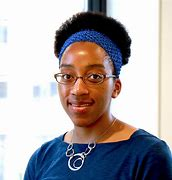
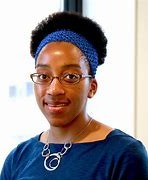
Added building image, finished contributors layout (need to list all contributors)

diff --git a/index.html b/index.html
@@ -1,97 +1,107 @@
 <!DOCTYPE html>
 <html lang="en">
-<head>
-    <meta charset="UTF-8">
-    <meta name="viewport" content="width=device-width, initial-scale=1.0">
-    <title>CS TA Program - Home</title>
-    <link rel="stylesheet" href="src/css/main.css">
-    <link rel="stylesheet" href="src/css/responsive.css">
-</head>
-<body>
-    <header id="main-header"></header>
+    <head>
+        <meta charset="UTF-8">
+        <meta name="viewport" content="width=device-width, initial-scale=1.0">
+        <title>CS TA Program - Home</title>
+        <link rel="stylesheet" href="src/css/main.css">
+        <link rel="stylesheet" href="src/css/responsive.css">
+    </head>
+    <body>
+        <header id="main-header"></header>
 
-    <nav id="main-nav"></nav>
+        <nav id="main-nav"></nav>
 
-    <main>
-        <div class="container">
-            <div class="content">
-                <h2>Welcome to the Student Computer Science Website!</h2>
-                <p>Explore our website to learn about our initiatives and meet our team.</p>
-                <a href="src/pages/meet-tas.html" class="button">Meet Our TAs</a>
+        <main>
+            <div class="container">
+                <div class="content">
+                    <h2>Welcome to the Student Computer Science Website!</h2>
+                    <img class="main-image" src="/src/images/CMIT.jpg" alt="CMIT Building">
+                    <p>Explore our website to learn about our initiatives and meet our team.</p>
+                    <a href="src/pages/meet-tas.html" class="button">Meet Our TAs</a>
 
-                <h2>What is Computer Science?</h2>
-                <p>&emsp; &ensp;
-                    Computer scientists have transformed the world we live in,
-                    and with a computer science degree, you can become the next leader in our
-                    technology-driven society. With four areas of concentration, hands-on
-                    curriculum,
-                    <a href="https://berea.smartcatalogiq.com/en/current/catalog/departments-of-study/computer-science/computer-and-information-science-b-a/" target="_blank" title="Computer and Information Science B.A.">(View classes here!)</a>
-                    a caring and accessible faculty, and numerous labor and
-                    co-curricular opportunities, you'll be ready to create the next great
-                    advancement in technology. Coming in 2024, our new technology building will
-                    support opportunities to explore advanced computing subjects in our
-                    interactive robotics and visualization lab, a makerspace designed to foster
-                    creativity and exploration, and a hands-on networking and security lab.
-                </p>
-                <p>&emsp; &ensp;
-                    We've designed an inclusive curriculum that begins with the
-                    basics of programming and data structures, and culminates with advanced
-                    topics in computer science and a capstone experience. The curriculum is also
-                    flexible enough to support students starting with no prior computing
-                    experience, as well as students who've taken computer science courses prior
-                    to Berea, meeting you where you are in your computing journey. With
-                    conferences, hack-a-thons, internships, research opportunities, and a robust
-                    labor program, students graduate from the computer science major with
-                    real-world, hands-on experience that makes them competitive in today's
-                    market.
-                </p>
-                <p> Find out more about the Computer Science department
-                    <a href="https://www.berea.edu/academics/departments-programs/computer-science" target="_blank" title="Computer Science - Berea College"> here!</a>
-                </p>
+                    <h2>What is Computer Science?</h2>
+                    <p>&emsp; &ensp;
+                        Computer scientists have transformed the world we live in,
+                        and with a computer science degree, you can become the next leader in our
+                        technology-driven society. With four areas of concentration, hands-on
+                        curriculum,
+                        <a href="https://berea.smartcatalogiq.com/en/current/catalog/departments-of-study/computer-science/computer-and-information-science-b-a/" target="_blank" title="Computer and Information Science B.A.">(View classes here!)</a>
+                        a caring and accessible faculty, and numerous labor and
+                        co-curricular opportunities, you'll be ready to create the next great
+                        advancement in technology. Coming in 2024, our new technology building will
+                        support opportunities to explore advanced computing subjects in our
+                        interactive robotics and visualization lab, a makerspace designed to foster
+                        creativity and exploration, and a hands-on networking and security lab.
+                    </p>
+                    <p>&emsp; &ensp;
+                        We've designed an inclusive curriculum that begins with the
+                        basics of programming and data structures, and culminates with advanced
+                        topics in computer science and a capstone experience. The curriculum is also
+                        flexible enough to support students starting with no prior computing
+                        experience, as well as students who've taken computer science courses prior
+                        to Berea, meeting you where you are in your computing journey. With
+                        conferences, hack-a-thons, internships, research opportunities, and a robust
+                        labor program, students graduate from the computer science major with
+                        real-world, hands-on experience that makes them competitive in today's
+                        market.
+                    </p>
+                    <p> Find out more about the Computer Science department
+                        <a href="https://www.berea.edu/academics/departments-programs/computer-science" target="_blank" title="Computer Science - Berea College"> here!</a>
+                    </p>
 
-                <p> Take a look at the course sequencing table 
-                    <a href="https://berea.smartcatalogiq.com/en/current/catalog/about-academics/course-sequencing-tables/computer-and-information-science/" target="_blank" title="Computer Science Course Sequencing Table"> here!</a>
-                    (it may be outdated)
-                </p>
+                    <p> Take a look at the course sequencing table 
+                        <a href="https://berea.smartcatalogiq.com/en/current/catalog/about-academics/course-sequencing-tables/computer-and-information-science/" target="_blank" title="Computer Science Course Sequencing Table"> here!</a>
+                        (it may be outdated)
+                    </p>
 
-                <h2> Computer Science Faculty & Staff </h2>
-                <div class="staff-grid">
-                    <div class="staff-border">
-                        <img class="staff-image" src="/src/images/drHeggen.jpeg" alt="Dr. Heggen"></img>
-                        <a href="https://www.berea.edu/academics/departments-programs/computer-science/faculty-staff/dr-scott-heggen" target="_blank" title="Dr. Scott Heggen"> Dr. Scott Heggen</a>
-                    </div>
-                    <div class="staff-border">
-                        <img class="staff-image" src="/src/images/drPearce.jpg" alt="Dr. Jan Pearce"></img>
-                        <a href="https://www.berea.edu/academics/departments-programs/computer-science/faculty-staff/dr-jan-pearce-2" target="_blank" title="Dr. Jan Pearce"> Dr. Jan Pearce</a>
-                    </div>
-                    <div class="staff-border">
-                        <img class="staff-image" src="/src/images/drNakazawa.jpg" alt="Dr. Mario Nakazawa"></img>
-                        <a href="https://www.berea.edu/academics/departments-programs/computer-science/faculty-staff/dr-mario-nakazawa-2" target="_blank" title="Dr. Mario Nakazawa"> Dr. Mario Nakazawa</a>
-                    </div>
-                    <div class="staff-border">
-                        <img class="staff-image" src="/src/images/drJones.jpg" alt="Dr. Jasmine Jones"></img>
-                        <a href="https://www.berea.edu/academics/departments-programs/computer-science/faculty-staff/dr-jasmine-jones" target="_blank" title="Dr. Jasmine Jones"> Dr. Jasmine Jones</a>
-                    </div>
-                    <div class="staff-border">
-                        <img class="staff-image" src="/src/images/drBoggs.png" alt="Dr. Jacqueline Boggs"></img>
-                        <a href="https://www.berea.edu/academics/departments-programs/computer-science/faculty-staff/dr-jacqueline-jacci-boggs" target="_blank" title= "Dr. Jacqueline Boggs"> Dr. Jacqueline "Jacci" Boggs</a>
-                    </div>
-                    <div class="staff-border">
-                        <img class="staff-image" src="/src/images/profWilborne.jpeg" alt="Prof. Deanna Wilborne"></img>
-                        <a href="https://www.berea.edu/academics/departments-programs/computer-science/faculty-staff/deanna-wilborne" target="_blank" title="Prof. Deanna Wilborne"> Prof. Deanna Wilborne</a>
-                    </div>
-                    <div class="staff-border">
-                        <img class="staff-image" src="/src/images/brian.png" alt="Brian Ramsey"></img>
-                        <a href="https://www.berea.edu/academics/departments-programs/computer-science/faculty-staff/brian-ramsey" target="_blank" title="Brian Ramsey"> Brian Ramsey</a>
+                    <h2> Computer Science Faculty & Staff </h2>
+                    <div class="staff-grid">
+                        <div class="staff-border">
+                            <img class="staff-image" src="/src/images/drHeggen.jpeg" alt="Dr. Heggen"></img>
+                            <br/>
+                            <a href="https://www.berea.edu/academics/departments-programs/computer-science/faculty-staff/dr-scott-heggen" target="_blank" title="Dr. Scott Heggen"> Dr. Scott Heggen</a>
+                        </div>
+                        <div class="staff-border">
+                            <img class="staff-image" src="/src/images/drPearce.jpg" alt="Dr. Jan Pearce"></img>
+                            <br/>
+                            <a href="https://www.berea.edu/academics/departments-programs/computer-science/faculty-staff/dr-jan-pearce-2" target="_blank" title="Dr. Jan Pearce"> Dr. Jan Pearce</a>
+                        </div>
+                        <div class="staff-border">
+                            <img class="staff-image" src="/src/images/drNakazawa.jpg" alt="Dr. Mario Nakazawa"></img>
+                            <br/>
+                            <a href="https://www.berea.edu/academics/departments-programs/computer-science/faculty-staff/dr-mario-nakazawa-2" target="_blank" title="Dr. Mario Nakazawa"> Dr. Mario Nakazawa</a>
+                        </div>
+                        <div class="staff-border">
+                            <img class="staff-image" src="/src/images/drJones.jpg" alt="Dr. Jasmine Jones"></img>
+                            <br/>
+                            <a href="https://www.berea.edu/academics/departments-programs/computer-science/faculty-staff/dr-jasmine-jones" target="_blank" title="Dr. Jasmine Jones"> Dr. Jasmine Jones</a>
+                        </div>
+                        <div class="staff-border">
+                            <img class="staff-image" src="/src/images/drBoggs.png" alt="Dr. Jacqueline Boggs"></img>
+                            <br/>
+                            <a href="https://www.berea.edu/academics/departments-programs/computer-science/faculty-staff/dr-jacqueline-jacci-boggs" target="_blank" title= "Dr. Jacqueline Boggs"> Dr. Jacqueline "Jacci" Boggs</a>
+                        </div>
+                        <div class="staff-border">
+                            <img class="staff-image" src="/src/images/profWilborne.jpeg" alt="Prof. Deanna Wilborne"></img>
+                            <br/>
+                            <a href="https://www.berea.edu/academics/departments-programs/computer-science/faculty-staff/deanna-wilborne" target="_blank" title="Prof. Deanna Wilborne"> Prof. Deanna Wilborne</a>
+                        </div>
+                        <div class="staff-border">
+                            <img class="staff-image" src="/src/images/brian.png" alt="Brian Ramsey"></img>
+                            <br/>
+                            <a href="https://www.berea.edu/academics/departments-programs/computer-science/faculty-staff/brian-ramsey" target="_blank" title="Brian Ramsey"> Brian Ramsey</a>
+                        </div>
                     </div>
                 </div>
             </div>
-        </div>
-    </main>
+        </main>
+
+        <script src="src/js/main.js"></script>
+        <script src="src/js/navigation.js"></script>
+        
+    </body>
 
     <footer id="main-footer"></footer>
-
-    <script src="src/js/main.js"></script>
-    <script src="src/js/navigation.js"></script>
-</body>
+    
 </html>

diff --git a/src/pages/contributors.html b/src/pages/contributors.html
@@ -43,9 +43,69 @@
                     <td>Head Teaching Assistant</td>
                 </tr>
                 <tr>
-                    <td>Mahmoud</td>
+                    <td>Mahmoud Leghlimi</td>
                     <td>Teaching Assistant</td>
                 </tr>
+                <tr>
+                    <td>Bryanna Erickson</td>
+                    <td>Role</td>
+                </tr>
+                <tr>
+                    <td>Phuyal G</td>
+                    <td>Role</td>
+                </tr>
+                <tr>
+                    <td>Tojo Heriniaina Tsimalay</td>
+                    <td>Teaching Assistant</td>
+                </tr>
+                <tr>
+                    <td>Dyland Roland</td>
+                    <td>Role</td>
+                </tr>
+                <tr>
+                    <td>America Gaona Borges</td>
+                    <td>Teaching Assistant</td>
+                </tr>
+                <tr>
+                    <td>Tafreed Sardar</td>
+                    <td>Role</td>
+                </tr>
+                <tr>
+                    <td>Nauryzbek Berdi</td>
+                    <td>Teaching Assistant</td>
+                </tr>
+                <tr>
+                    <td>Cade Allen</td>
+                    <td>Role</td>
+                </tr>
+                <tr>
+                    <td>Name</td>
+                    <td>Role</td>
+                </tr>
+                <tr>
+                    <td>Name</td>
+                    <td>Role</td>
+                </tr>
+                <tr>
+                    <td>Name</td>
+                    <td>Role</td>
+                </tr>
+                <tr>
+                    <td>Name</td>
+                    <td>Role</td>
+                </tr>
+                <tr>
+                    <td>Name</td>
+                    <td>Role</td>
+                </tr>
+                <tr>
+                    <td>Name</td>
+                    <td>Role</td>
+                </tr>
+                <tr>
+                    <td>Name</td>
+                    <td>Role</td>
+                </tr>       
             </table>
         </div>
     </main>

diff --git a/src/css/main.css b/src/css/main.css
@@ -123,6 +123,13 @@ footer {
     grid-template-columns: 1fr 1fr 1fr;
 }
 
+.main-image {
+    width:100%;
+    border-image: round;
+    border-radius: 5px;
+    border:3px solid var(--primary-blue);
+}
+
 .staff-image {
     width: 200px;
     height: 300px;
